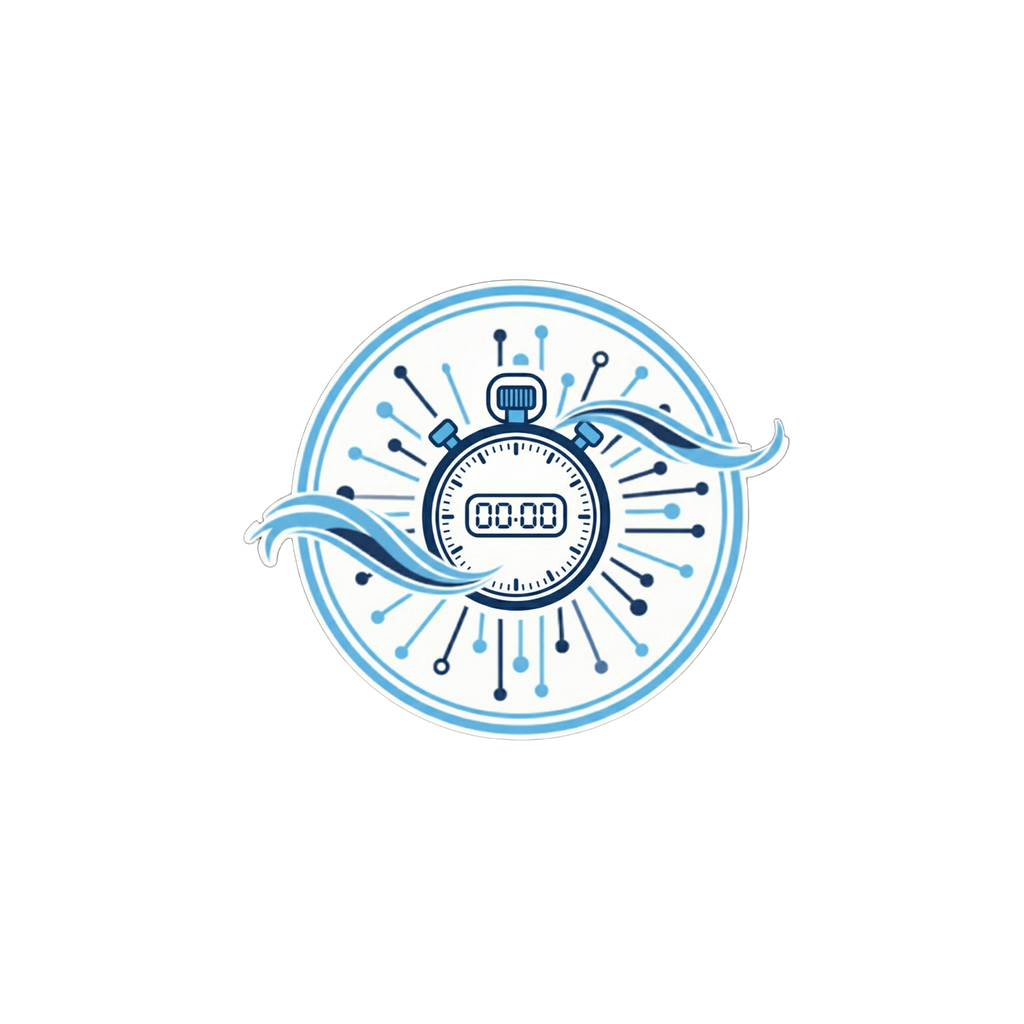
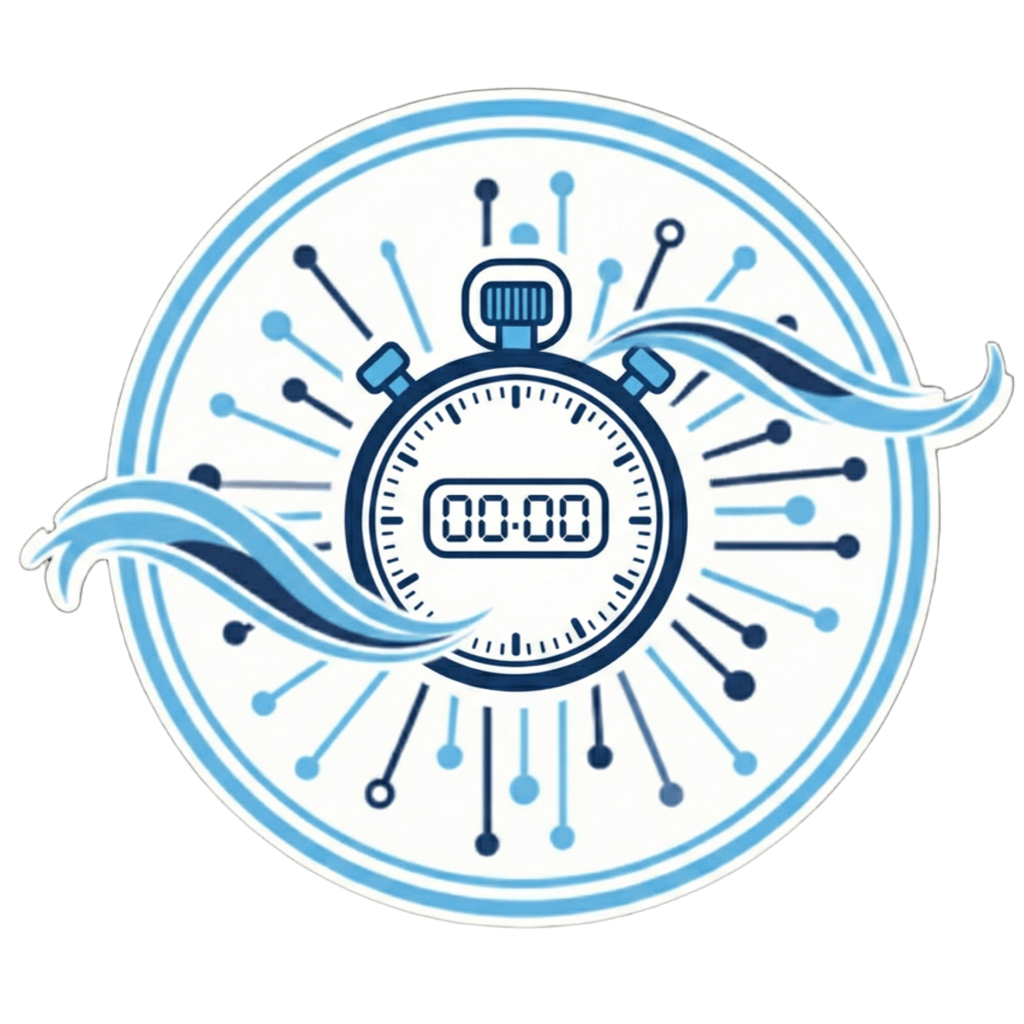
画像変更

Changed region(s): [[0.0312, 0.0938, 1.0, 0.9062]]

diff --git a/apps/mobile/app/(auth)/welcome.tsx b/apps/mobile/app/(auth)/welcome.tsx
@@ -1,6 +1,5 @@
-import { View, Text, Pressable, StyleSheet } from "react-native";
+import { View, Text, Pressable, StyleSheet, Image } from "react-native";
 import { SafeAreaView } from "react-native-safe-area-context";
-import { Ionicons } from "@expo/vector-icons";
 import { useRouter } from "expo-router";
 import { useTranslation } from "react-i18next";
 import { colors, spacing, radius, fontSize } from "../../lib/theme";
@@ -16,13 +15,10 @@ export default function WelcomeScreen() {
     >
       <View style={styles.content}>
         <View style={styles.logoContainer}>
-          <View style={styles.iconContainer}>
-            <Ionicons
-              name="stopwatch-outline"
-              size={40}
-              color={colors.primary}
-            />
-          </View>
+          <Image
+            source={require("../../assets/splash-icon.png")}
+            style={styles.appIcon}
+          />
           <Text style={styles.appName}>{t("common.appName")}</Text>
           <Text style={styles.tagline}>{t("import.subtitle")}</Text>
         </View>
@@ -71,13 +67,9 @@ const styles = StyleSheet.create({
     alignItems: "center",
     gap: spacing.lg,
   },
-  iconContainer: {
-    width: 72,
-    height: 72,
-    borderRadius: 20,
-    backgroundColor: colors.primaryMuted,
-    alignItems: "center",
-    justifyContent: "center",
+  appIcon: {
+    width: 160,
+    height: 160,
   },
   appName: {
     fontSize: 32,
